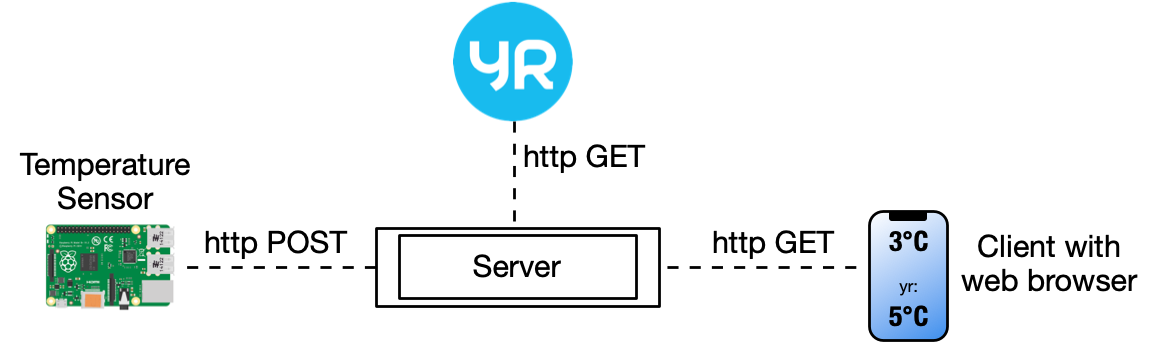
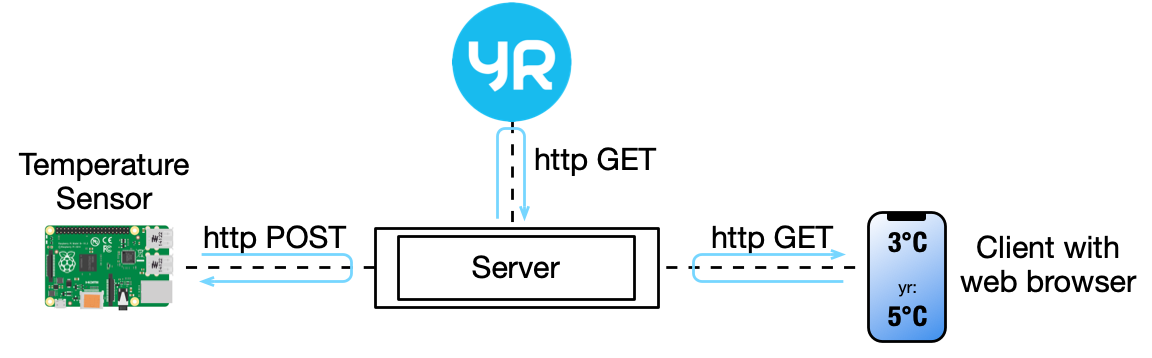
Update

diff --git a/pages/iot-http-json.md b/pages/iot-http-json.md
@@ -237,8 +237,10 @@ source: figures/http/smart-home.png
 ---
 
 * The sensor periodically measures its temperature and provides it to the server in the center, using HTTP POST requests. 
-* The server stores the temperature of the temperature sensor, and periodically requests the temperature forecast from the API from yr.no via HTTP GET requests. 
-* The server also answers GET requests from clients to present both the sensor temperature and the prediction from <yr.no> in a single page. 
+* The server stores the temperature of the temperature sensor, and periodically requests the temperature forecast from the API from [yr.no](yr.no) via HTTP GET requests. 
+* The server also answers GET requests from clients to present both the sensor temperature and the prediction from [yr.no](yr.no) in a single page. 
+
+:task: Create a sequence diagram with three components: temperature sensor, the server, Yr and the mobile client. Illustrate with the sequence diagram how the temperature sensor updates the server with the measured temperature, and how the mobile client makes a request to our server, which also involves getting the temperature forecast from Yr.
 
 
 ## Code for the Web Server
@@ -347,7 +349,7 @@ Note: Whenever you are going to change the code of the web server, you will need
 ## Request via Web Browser
 
 * Either on the same machine, or (even better) on a different machine in case you are in the same network, access the website address that the server prints out in a browser.
-* If you access the browser on the same machine, you can type `http://localhost:8023/` as address. Otherwise, use the IP address instead of `localhost.
+* If you access the browser on the same machine, you can type `http://localhost:8023/` as address. Otherwise, use the IP address instead of `localhost`.
 * What happens in the browser, and what happens in the command where the server program runs?
 * Create a sequence diagram of what you have just observed, and annotate it with details that you find relevant.
 * Answer the following questions:
@@ -384,11 +386,16 @@ source: figures/http/smart-home.png
 
 So, to repeat: 
 
-* Here, the `do_GET()` function processes the requests from browsers that want to know the temperature, and it works pretty much like the **GET** for any other website; we return a complete webstie to the browser that shows the temperature.
+* Here, the `do_GET()` function processes the requests from browsers that want to know the temperature, and it works pretty much like the **GET** for any other website; we return a complete website to the browser that shows the temperature.
 
 * With the `do_POST()` function, a smart sensor (which we imitate with another Python program) can tell the sensor which temperature it measured. 
 
 The temperature sensor and the browser to show the temperature to a user are acting completely independently. (Of course, the server can only show a temperature to a browser if the temperature sensor has at least updated the temperature once.) 
+
+
+
+:task: Run the code, like any Python program via `python webserver.py`.
+
 
 
 :task: 
@@ -479,10 +486,8 @@ print_response(response)
 
 ## Decoding Data in the Server
 
-* Pay attention to the method `do_POST()` in the server, and work on the incoming data to decode it. (We have provided the code for that.) There are helper functions in the server code you can use. Among others, the function `extract_json_string(string)` is useful to extract a JSON string (within curly brackets) from a string.
-* Re-create the incoming dictionary that originates at the client.
-* Extract the temperature sent by the client, and store it in the data dictionary of the server.
-
+* Pay attention to the method `do_POST()` in the server
+* What is happening in the code that we provided in the method `do_POST()`, step by step?
 
 
 # Storing Temperature Data in the Server
@@ -511,24 +516,14 @@ To repeat and clarify:
 * `do_POST()` stores the temperature data submitted by the temperature sensor application,
 * `do_GET()` provides the website with the the data from the sensor and the air temperature obtained from the forecast.
 
-
+:task: Uncomment the storage for the temperature in the code.
 
 ### Adding the Yr Forecast
 
 
-Extend your server logic so that it does not only return the temperature of the sensor, but also the temperature forecast from yr, so that it is displayed together. 
+:task: Extend your server logic so that it does not only return the temperature of the sensor, but also the temperature forecast from yr, so that it is displayed together. 
 
-Use the function for getting the forecast you have developed above. 
-
-
-### Optional Task: Storing the Forecast
-
-Your solution will probably make a new request for a forecast with yr.no each time your server should answer a request via `do_get()`.
-
-Create a solution where the server stores the forecast temperature, and re-uses it for the different requests. 
-
-What are benefits and drawbacks of this solution? 
-How would you even further improve it?
+Use the function for getting the forecast you have developed above. This means you web server which acts as a server because it implements the methods GET and POST, now also acts as a client towards Yr.no since it requests data from it. 
 
 
 
